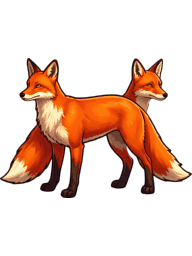
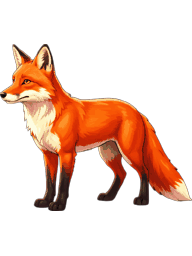
world2 v9.56.6: 크리처 전신 그림 방향을 왼쪽으로 맞춤
원정이 왼→오른쪽이라 기다리는 크리처는 왼쪽을 봐야 하는데 몇은 반대였다.
들개·늑대 두목·가재는 좌우를 뒤집고, 두 마리가 그려져 있던 여우는 한 마리로
다시 뽑았다. 규칙을 docs/게임_규칙.md 와 CLAUDE.md 에 적었다.

diff --git a/game-card-world2/index.html b/game-card-world2/index.html
@@ -1746,7 +1746,7 @@ const pick = arr => arr[Math.floor(Math.random() * arr.length)];
 const esc = s => String(s).replace(/[&<>"]/g, ch => ({ '&':'&amp;', '<':'&lt;', '>':'&gt;', '"':'&quot;' }[ch]));
 
 // ── 크래프팅 탭 (world2 v0.1.0) ───────────────────────
-const VERSION = 'v9.56.5';
+const VERSION = 'v9.56.6';
 const SAVE_KEY = 'card-world2.v1';                              // 레거시(card-world-rpg.v1)와 따로
 // 크래프팅 탭에 올라오는 카드 = 단계가 있는 카드 (v0.3.0: 1단계 12장)
 const craftable = t => !!DEFS[t] && !!DEFS[t].step;

diff --git a/game-card-world2/docs/기능.md b/game-card-world2/docs/기능.md
@@ -3928,6 +3928,12 @@
 - [x] v9.55.2: **여관 퀘스트** — 등록하면 기사의 수첩에 한 줄로 올라온다 (🏨 딱지 · 장인 그림 · 지금 걸음 한 줄 · n/3)
   - 소문이면 가야 할 땅, 물건이면 `무른 가죽 0/3 · 억센 가죽 0/2`, 증명이면 넘어야 할 놈을 적는다
   - 걸음이 하나 끝나면 목표 줄처럼 **새 줄로 번쩍이며** 올라온다. 장인을 아직 못 찾았으면 이름 자리는 ???
+- [x] v9.56.6: 크리처 전신 그림 **스물여섯 장 전부 점검** — 서 있는 방향을 왼쪽으로 맞췄다
+  - 규칙: 원정이 왼→오른쪽이므로 크리처는 **왼쪽(다가오는 쪽)을 본다**. 화면은 크리처 그림을 뒤집지 않는다
+  - 고친 것: 들개 · 늑대 두목 · 가재 (오른쪽을 보고 있어 **좌우를 뒤집음** — 다시 뽑으면 그림이 달라진다)
+  - 다시 뽑은 것: 여우 — **두 마리**가 그려져 있었다 (한 마리 규칙 어김). 왼쪽 옆모습으로 새로 뽑았다
+  - 그대로 둔 것: 거미 · 거미 어미 · 둥지 주인 · 소라게 · 큰 집게 · 껍질 주인 · 두꺼비 · 돌가죽 주인 · 무덤 주인 · 탑의 눈
+    — 좌우가 같은 꼴이라 **정면도 방향이 없는 그림**이다
 - [x] v9.56.5: **사람 그림의 규칙을 정했다** (docs/게임_규칙.md '캐릭터와 크리처')
   - 사람 카드는 **얼굴과 깃까지만**, 전신은 따로 — 그림 둘. 크리처는 얼굴을 안 그리고 **전신 하나**로 카드 · 필드 · 정보 칸을 다 쓴다
   - `make_icon_character.py --frame person|creature` 를 넣어 틀을 프롬프트에 못 박았다 (손 · 연장 · 가슴 아래 금지)

diff --git a/game-card-world2/docs/게임_규칙.md b/game-card-world2/docs/게임_규칙.md
@@ -558,3 +558,16 @@
 - 뽑는 법: `make_portrait.py --kind creature` (아이콘이 필요하면 `make_icon_character.py --frame creature`).
 
 그래서 사람은 그림이 **둘**(얼굴 · 전신), 크리처는 **하나**(전신)다. 새 사람을 넣을 때는 둘 다 뽑는다.
+
+## 확정 — 크리처 전신 그림은 **왼쪽을 본다** (2026-10-05)
+
+원정은 **왼쪽에서 오른쪽으로** 간다. 우리 편이 왼쪽, 기다리는 것이 오른쪽이다.
+그래서 크리처 그림은 **왼쪽(= 다가오는 쪽)을 보고 서 있어야** 한다. 화면은 크리처 그림을 뒤집지 않는다.
+
+- 옆이나 비스듬히 선 것(네발짐승 · 악어 · 물고기 · 가재 …)은 **머리가 왼쪽**이다.
+- 좌우가 같은 꼴(거미 · 게 · 두꺼비 · 사람 꼴 보스 · 탑의 눈)은 **정면**도 좋다 — 방향이 없는 그림이다.
+- 우리 편(기사 · 궁수)은 **정면**으로 그린다. 줄에서 기사 그림만 좌우를 뒤집어 쓴다(`.tok.knight .pic`).
+- 프롬프트에 `side view facing to the left` 를 적는다. 이미 뽑은 그림이 반대면 **좌우를 뒤집어** 고친다
+  (`make_portrait.py --flip`, 또는 PNG 를 그대로 뒤집는다 — 다시 뽑으면 그림이 달라진다).
+
+2026-10-05 점검: 들개 · 늑대 두목 · 가재는 오른쪽을 보고 있어 뒤집었고, 여우는 **두 마리**가 그려져 있어 한 마리로 다시 뽑았다.

diff --git a/game-card-world2/docs/아이콘_목록.md b/game-card-world2/docs/아이콘_목록.md
@@ -639,9 +639,9 @@ a pair of long thin dark catfish barbels whiskers, glossy and slightly curled
 <!-- icon:portrait_fox -->
 ### portrait_fox — 여우
 - 파일: `images/portrait/portrait_fox.png`
-- 생성: 2026-10-02 · seed `271253635246780` · 옵션 `--kind creature`
+- 생성: 2026-10-05 · seed `65206276139628` · 옵션 `--kind creature`
 ```
-full body of a lean red fox standing sideways, bushy tail, sharp muzzle, alert
+full body of one single red fox standing in side view facing to the left, bushy tail low, alert ears
 ```
 <!-- /icon -->
 
